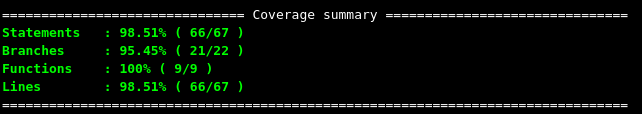
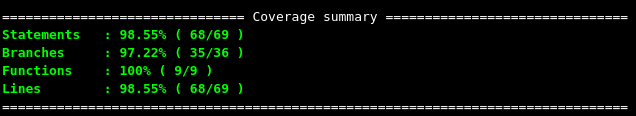
fix(parse): fixing parser for anonymous methods + readme + coveralls

diff --git a/test/parseTest.js b/test/parseTest.js
@@ -10,7 +10,7 @@ const assert = chai.assert,
 const parser = require('../utils/parse.js');
 
 
-var multiline, multiline2, singleline, stacktrace, stacktrace2;
+var multiline, multiline2, singleline, stacktrace, stacktrace2, stacktrace3;
 
 function readFile(filename) {
   return new Bluebird((resolve, reject) => {
@@ -59,6 +59,14 @@ before(function(done) {
   readFile('test/samples/stacktrace2.txt')
   .then((stacktraceContent) => {
     stacktrace2 = stacktraceContent;
+    done();
+  });
+});
+
+before(function(done) {
+  readFile('test/samples/stacktrace3.txt')
+  .then((stacktraceContent) => {
+    stacktrace3 = stacktraceContent;
     done();
   });
 });
@@ -243,6 +251,12 @@ describe('The parser module', function () {
       var result = parser.splitAndSanitizeStack(stacktrace);
       assert.equal(result.length, 7);
       assert.equal(result[0].method, 'g_hash_table_foreach_remove_or_steal');
+      done();
+    });
+
+    it('return nothing because of bad stacktrace', function(done) {
+      var result = parser.splitAndSanitizeStack(stacktrace3);
+      assert.equal(result.length, 5);
       done();
     });
   });

diff --git a/utils/parse.js b/utils/parse.js
@@ -115,7 +115,8 @@ function splitAndSanitizeStack(stacktrace){
     if(immunesFunction.indexOf(sanitizedLine.method) === -1
       && (count === 0
         || (count > 0 && sanitizedLine.method !== "??" && sanitizedLine.method !== results[count - 1].method)
-        || (count > 0 && sanitizedLine.method === "??" && sanitizedLine.path !== results[count - 1].path)
+        || (count > 0 && sanitizedLine.method === "??" && sanitizedLine.path !== "" && sanitizedLine.path !== results[count - 1].path)
+        || (count > 0 && sanitizedLine.method === "??" && sanitizedLine.path === "" && sanitizedLine.address !== results[count - 1].address)
       ))
     {
       results.push(sanitizedLine);

diff --git a/index.js b/index.js
@@ -120,7 +120,7 @@ function getSimilarity(stacktraceAloneParsed, stacktraceSortedParsed, i, j) {
       return coeffPath;
     }
     else if(stacktraceAloneParsed[i].address != null && stacktraceAloneParsed[i].address === stacktraceSortedParsed[j].address){
-      return coeffPath;
+      return coeffAllSame;
     }
     else {
       return Number.MIN_SAFE_INTEGER;

diff --git a/README.md b/README.md
@@ -1,4 +1,4 @@
-# System for crash-to-bucket assignment. [![Build Status](https://travis-ci.org/Oupsla/StacktraceCrawler.svg?branch=master)](https://travis-ci.org/Oupsla/StacktraceCrawler)
+# System for crash-to-bucket assignment. [![Build Status](https://travis-ci.org/Oupsla/StacktraceCrawler.svg?branch=master)](https://travis-ci.org/Oupsla/StacktraceCrawler) [![Coverage Status](https://coveralls.io/repos/github/Oupsla/StacktraceCrawler/badge.svg?branch=master)](https://coveralls.io/github/Oupsla/StacktraceCrawler?branch=master)  
 OPL - Thème 2: Crash Analysis  
 15/11/2016
 
@@ -116,10 +116,11 @@ Notre algorithme se décompose en 3 étapes :
 
 #### Pré-Processing
 La première étape est donc une étape de pré-processing, elle consiste à lire toutes les stacktraces et buckets existants et à en extraire les données utiles.  
-Pour cela nous utilisons la librairie FS afin de lire les différents fichiers auxquels nous appliquons de multiples regex afin d'enlever les informations inutiles et en tirer les informations suivantes :
-- Le nom de méthodes de toutes les frames
-- Le chemin de la méthode de toutes les frames
-- Le numéro de chaque frame
+Pour cela nous utilisons la librairie FS afin de lire les différents fichiers auxquels nous appliquons de multiples regex afin d'enlever les informations inutiles et en tirer les informations suivantes pour chaque frame :
+- Le nom de la méthode
+- Le chemin de la méthode
+- Le numéro de frame
+- L'adresse mémoire
 
 Avant de faire cela, nous enlevons les méthodes récursives car celles-ci peuvent introduire des erreurs de calculs de similarité par la suite et aussi les fonctions immunes qui sont *réputées* pour ne pas provoquer de bugs (comme la méthode *clone()* par exemple) et qui dont ne doivent pas entrer dans le calcul de similarité.
 
@@ -127,7 +128,6 @@ Concernant les informations retirées, nous enlevons :
 - Les paramètres (différents paramètres pouvant amener au même bug)
 - Les numéros de lignes (pouvant trop facilement varier)
 - Les numéros de version de librairies
-- Les méthodes anonymes ne pouvant pas être comparées
 
 Nous obtenons donc au final de cette étape un tableau contenant les différentes frames de chaque stacktraces afin de pouvoir les comparer aisément.
 
@@ -135,23 +135,46 @@ Nous obtenons donc au final de cette étape un tableau contenant les différente
 Pour calculer la similitude, nous nous basons fortement sur le *Position Dependent Model* de Microsoft qui utilise le paradigme de la programmation dynamique.  
 Le principe est de calculer une matrice de similitude entre chaque stacktrace, c'est donc évidemment l'étape la plus longue et la plus lourde en calcul.  
 
-Pour calculer cette matrice, il faut attribuer des points par rapport à la comparaison entre frames (ici nous appliquons une simple comparaison entre le nom de méthode et le chemin) et y ajouter un coût basé sur les principes de distance et offset.
+Pour calculer cette matrice, il faut attribuer des points par rapport à la comparaison entre frames et y ajouter un coût basé sur les principes de distance et offset.  
+Concernant la comparaison nous appliquons des points par rapport aux éléments suivants :
+``` javascript
+    Define coeffs : coeffPath, coeffMethod, coeffAdresse, coeffSame;
 
-Ces points sont calculés par rapport à des coefficients. Ceux-ci peuvent être fixés au préalable (leur valeur par défaut étant défini par des expériences sur les 2 datasets fournis) ou peuvent être définis automatiquement à travers un processus qui va analyser les buckets confirmés. Mais cette étape est forte lente et parfois ne trouvent pas de meilleurs coefficients que ceux par défaut.
+    if (stacktraceToBePlaced is anonymous OR stacktracePlaced is anonymous)
+        if(stacktraceToBePlaced.path === stacktracePlaced.path)
+            return coeffPath;
+        if(stacktraceToBePlaced.adresse === stacktracePlaced.adresse)
+            return coeffPath;
+        return MIN_INTEGER;
+    else
+        if(stacktraceToBePlaced === stacktracePlaced)
+            return coeffSame;
+        if(stacktraceToBePlaced.adresse === stacktracePlaced.adresse)
+            return coeffAdresse;
+        if(stacktraceToBePlaced.method === stacktracePlaced.method)
+            return coeffMethod;
+        if(stacktraceToBePlaced.path === stacktracePlaced.path)
+            return coeffPath;
+        return MIN_INTEGER;
+```
 
-Nous avons aussi améliorés ce calcul en y ajoutant un coût de similitude à chaque étape du calcul de la matrice ce qui a amélioré les résultats.
+Ces coefficients, ainsi que les coefficients de distance, peuvent être fixés au préalable (leur valeur par défaut étant défini par des expériences sur les 2 datasets fournis) ou peuvent être définis automatiquement à travers un processus qui va analyser les buckets confirmés. Mais cette étape est forte lente et parfois ne trouvent pas de meilleurs coefficients que ceux par défaut.
+
+Nous avons aussi amélioré ce calcul en y ajoutant un coût de similitude à chaque étape du calcul de la matrice ce qui a amélioré les résultats.
 
 Voici les fonctions de calculs de Rebucket que nous avons légèrement modifiées.
 Respectivement le calcul de la matrice, le calcul du coût et le calcul de la similarité entre 2 stacktraces.  
-*c* et *o* étant les deux coefficients (distance et offset).
+**C** et **O** étant les deux coefficients de coût (distance et offset).
 
 ![Fonctions](https://raw.githubusercontent.com/Oupsla/StacktraceCrawler/master/images/Fonctions.png)
+
+
 
 
 #### Groupage
 Le placement d'une stacktrace dans un bucket est assez aisé et se base sur les similitudes calculées à l'étape précédent.
 
-Deux options sont possibles :
+Deux options sont possibles pour cette étape :
 - Soit grouper la stacktrace avec la stacktrace d'un bucket qui a obtenu le plus haut score de similarité
 - Soit calculer une moyenne de similitude entre chaque stacktrace d'un bucket et la stacktrace que l'on veut placer
 
@@ -175,7 +198,7 @@ Pour évaluer notre projet d'un point de vue performance, nous possédons 2 mét
 - Le temps d'exécution
 - Les points accordés par l'oracle sur 2 datasets
 
-Voici un graphique réprésentant l'avancement de notre projet par étape
+Voici un graphique réprésentant l'avancement de notre projet par étape :
 
 ![Historique](https://raw.githubusercontent.com/Oupsla/StacktraceCrawler/master/images/Historique.png)
 
@@ -196,7 +219,7 @@ Voici un graphique réprésentant l'avancement de notre projet par étape
 - Version 14 (+ Ajout de comparaison de méthodes anonymes et adresse - 65304.689ms) : 55
 
 Nous sommes donc assez content de notre avancée par rapport à l'oracle mais aussi au temps d'exécution globale de notre programme, malgré que celui-ci ne soit pas écrit dans le meilleur langage pour faire de l'algorithmique.  
-Sur certains versions (comme par exemple la 7), nous avons perdus des points mais avons quand même préféré les garder car celles-ci étaient logique dans leur intégration mais ne pouvaient se révéler utiles que plus tard par l'ajout d'autres mécanismes.
+Sur certains versions (comme par exemple la 7 et 9), nous avons perdus des points mais avons quand même préféré les garder car celles-ci étaient logique dans leur intégration mais ne pouvaient se révéler utiles que plus tard par l'ajout d'autres mécanismes.
 
 Nous avons aussi, lors de la version 10, ajouté des tests unitaires sur le parseur et avons rémarqué différents problèmes liés a celui-ci.  
 Nos tests se limitent au parseur car le calcul de points étant assez difficile à tester et changeant constamment par rapport aux nombreux ajouts et modifications apportés.
@@ -207,8 +230,8 @@ Cependant notre couverture sur la partie parseur est très bonne et nous est fou
 
 Ces tests nous ont donc permis d'être assuré que le parseur faisait bien son boulot et nous avons pu nous concentrer sur l'algorithme de calcul de similarité. De plus les tests sont exécutés automatiquement à chaque push sur github grace à Travis CI **[[12]](#référence)**.
 
-En résumé, sur les machines fournis par l'école et avec le premier dataset d'exemple, notre algorithme prend environ +-1min et atteints un score de 55 stacktraces placés sur 108 (sachant que certaines sont impossibles à placer, possédant trop peu d'informations).
-Celui-ci obtient un score de 74 sur 121 pour le 2ieme dataset avec un temps d'1min et 10 secondes en moyenne.
+En résumé, sur les machines fournis par l'école et avec le premier dataset d'exemple, notre algorithme prend environ +-2min et atteints un score de 56 stacktraces placées sur 108 (sachant que certaines sont impossibles à placer, possédant trop peu d'informations).
+Celui-ci obtient un score de 75 sur 121 pour le 2ieme dataset avec un temps d'1min et 10 secondes en moyenne.
 
 ### Facilité d'utilisation
 Comme dit précédemment, nous avons axé notre projet sur un grand découpage de celui-ci, car nous savions que de nombreuses parties de notre algorithme allaient être modifiées très fréquemment. Cela nous a permis de tester les fonctionnalités une à une pour voir si celles-ci étaient bénéfiques tant d'un point de vue de score que de performance.  
@@ -217,7 +240,7 @@ De ce fait, notre code est aussi très facile d'accès et pourrait être adapté
 ## Limitation
 Concernant les limitations du projet, nous avons mis en oeuvre l'algorithme du papier de Microsoft, il reste donc assez générique quelques soient le type de stacktraces à analyser. La vraie limitation est située dans le parseur qui lui est assez spécifique aux types de stacktrace que l'on nous a fourni dans les datasets.  
 
-Nous possédons aussi une branche contenant l'algorithme permettant de calculer les coéfficiant *c* et *o* de façon optimale. Cependant cet algorithme est très gourmand en temps et nous sommes donc limité dans l'utilisation de celui-ci.
+Nous possédons aussi une branche contenant l'algorithme permettant de calculer les coéfficiant **C** et **O** de façon optimale. Cependant cet algorithme est très gourmand en temps et nous sommes donc limité dans l'utilisation de celui-ci.
 
 ## Conclusion
 
